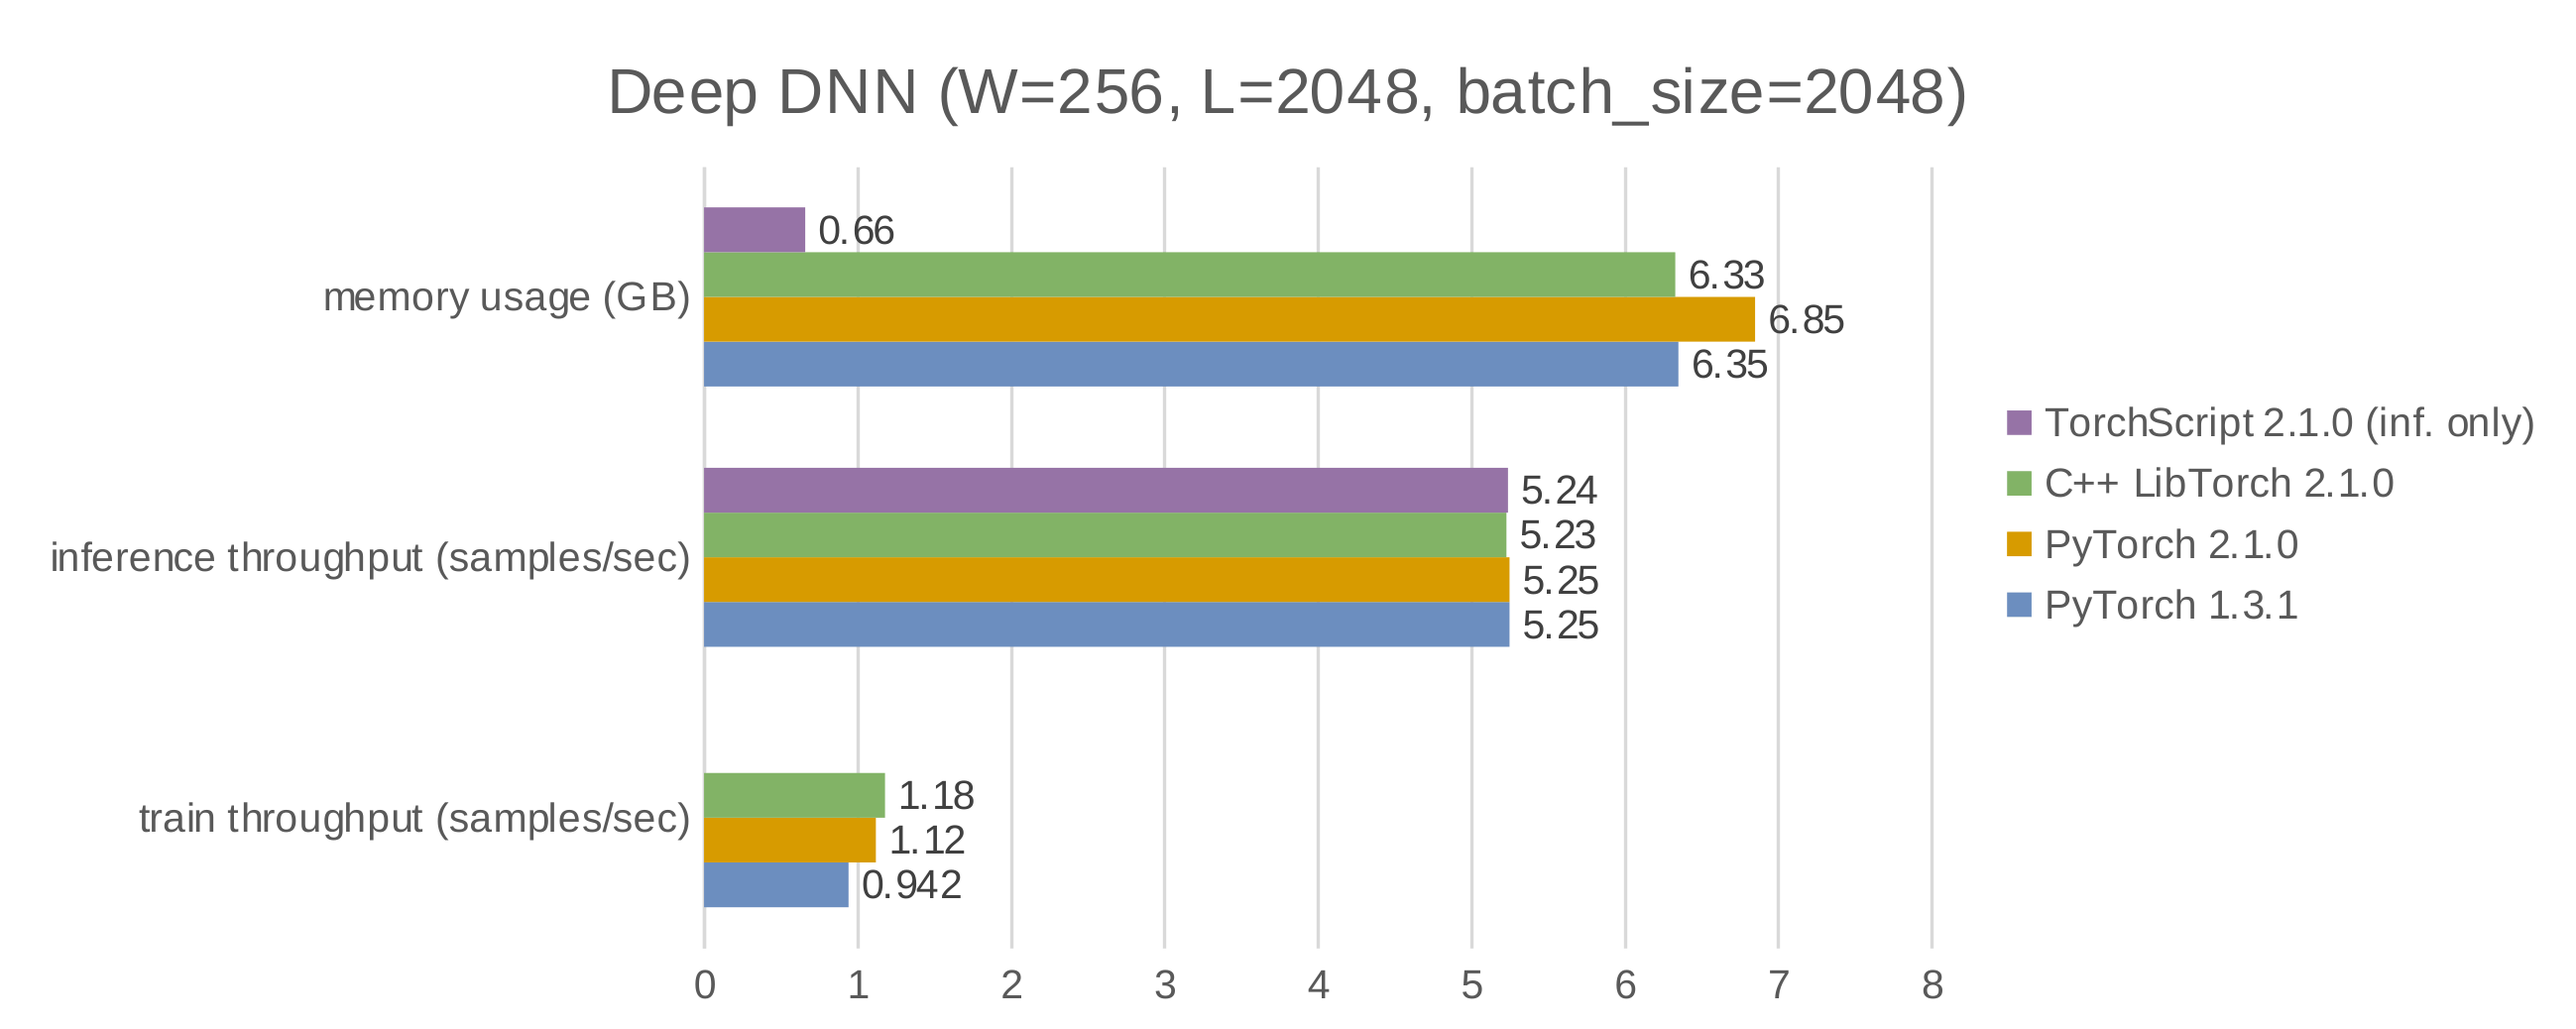
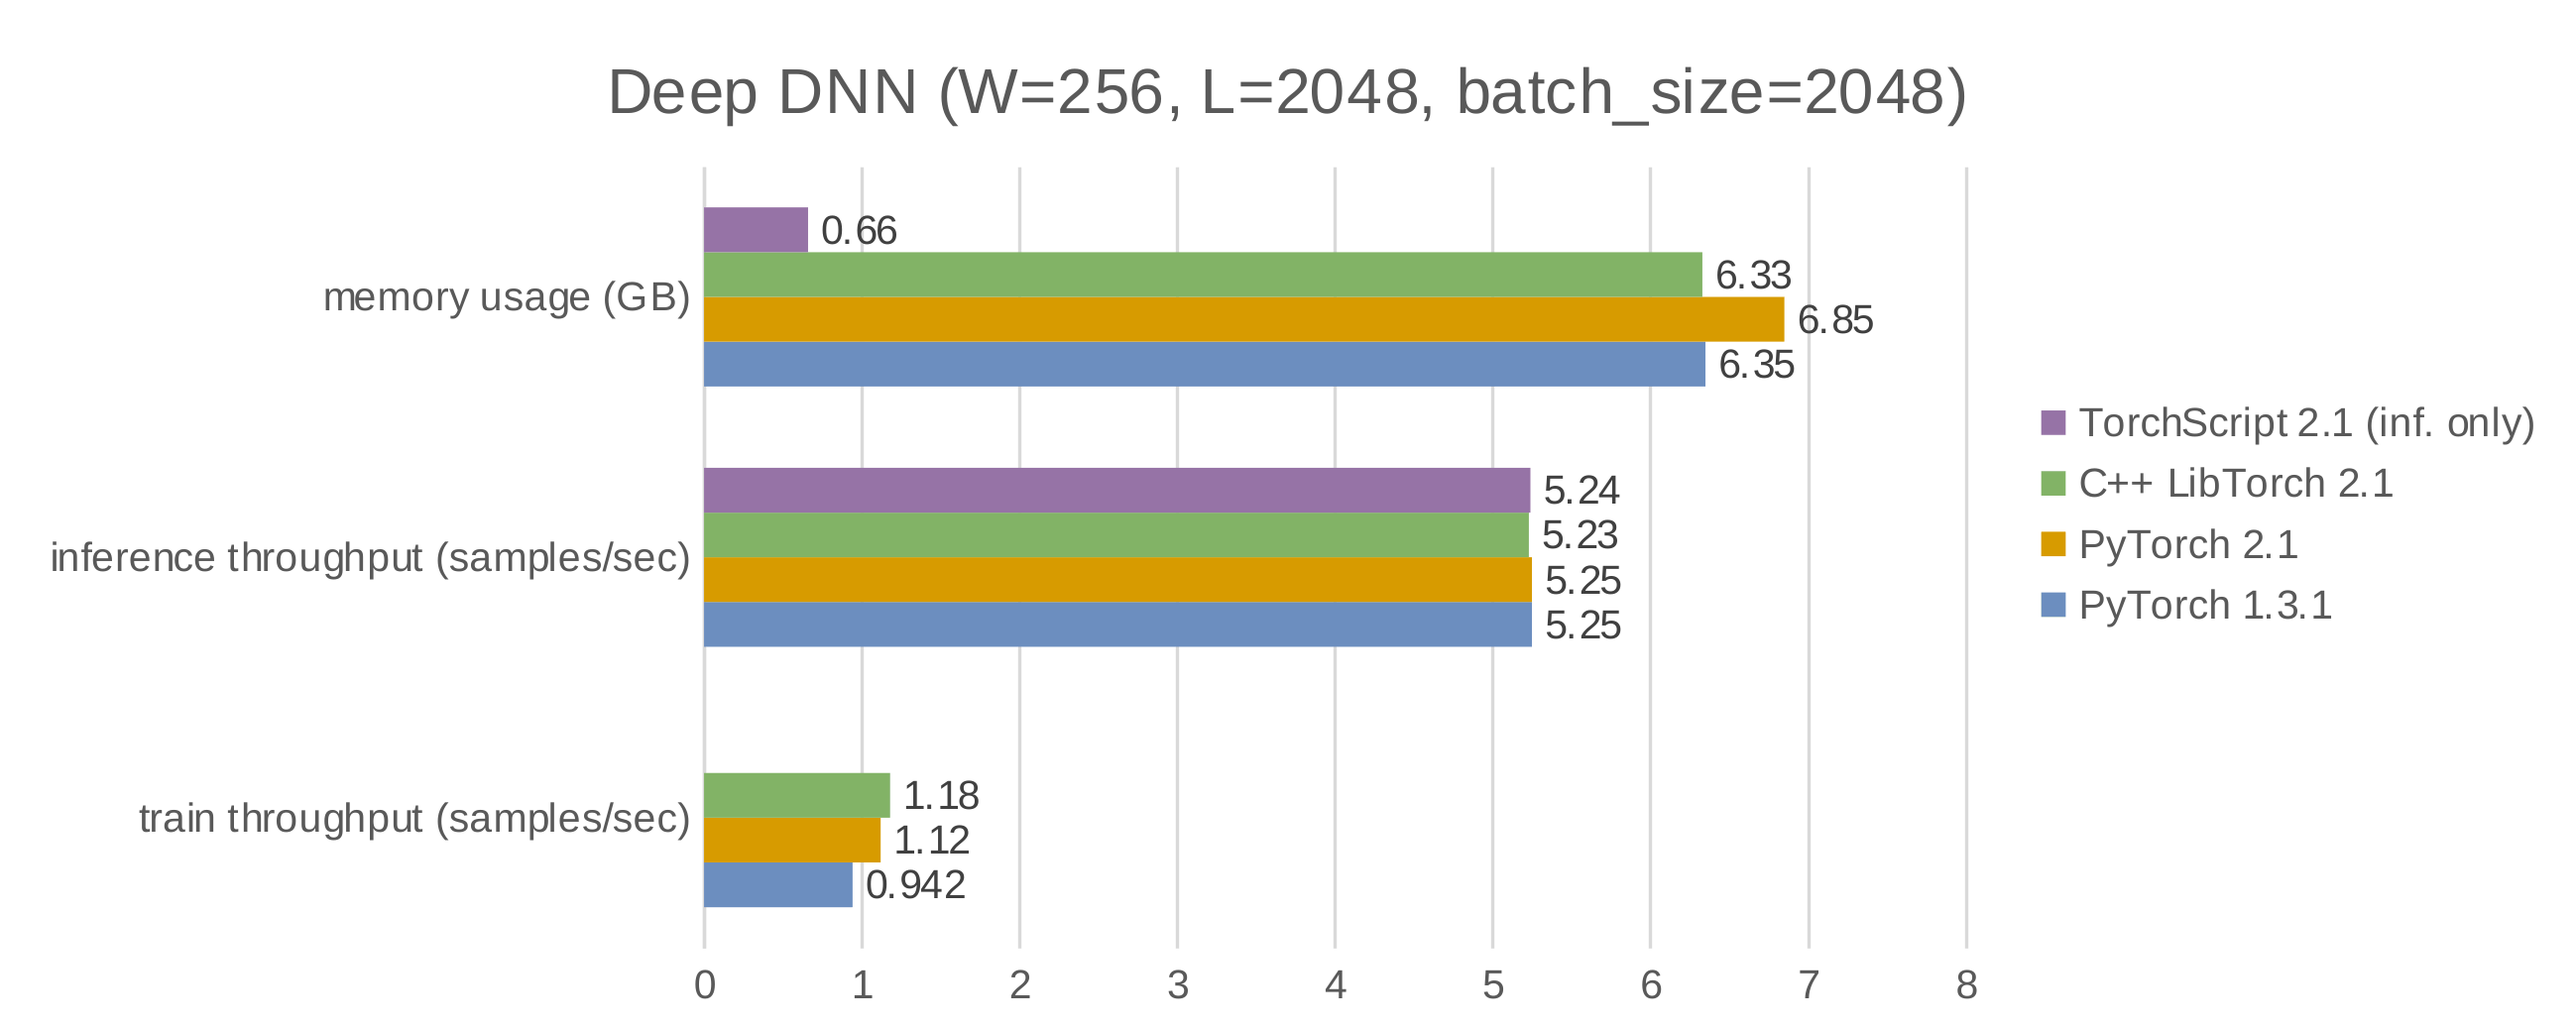
Name the PyTorch 2.1 versions without the patch number and correct the gain to 19% in gptlite-cpp
Claude-Session: https://claude.ai/code/session_01Xf6bJex2do3LmU6gkADKZ3

diff --git a/_posts/2023-06-27-gptlite-cpp.md b/_posts/2023-06-27-gptlite-cpp.md
@@ -39,7 +39,7 @@ The flag `fullgraph` specifies whether the compilation outputs a single graph fo
 
 ## About this post
 
-In this post, we will benchmark and analyse several implementations of ML training and inference performed on different backends: PyTorch 1.3.1 (Python), PyTorch 2.1.2 (Python), LibTorch 2.1.2 (C++), TorchScript 2.1.2 (Python and C++), and PyTorch 2.1.2 with `torch.compile` (Python).  
+In this post, we will benchmark and analyse several implementations of ML training and inference performed on different backends: PyTorch 1.3.1 (Python), PyTorch 2.1 (Python), LibTorch 2.1 (C++), TorchScript 2.1 (Python and C++), and PyTorch 2.1 with `torch.compile` (Python).  
 We will look at two different testbenches, so feel free to pick one based on your level of expertise and interest:
 1. the small variant of the GPT2 model, introduced in [Building a GPT model from scratch]({{ site.baseurl }}{% post_url  2023-02-28-gptlite %}), will be detailed in section [GPTlite on LibTorch C++](#gptlite-model). This is a complex example that is specific to the use case of large language models; 
 2. a Deep Neural Network of arbitrary width and depth, in section [Benchmark Model on LibTorch C++](#benchmark-model). This is a very simple example that will be used to benchmark our metrics on models of varying depths and widths. It is mostly suitable for those who are interested in performance modeling, ML engineering, and the C++/Python/TorchScript comparison.  
@@ -488,10 +488,10 @@ We compared the throughput (samples/sec) and GPU memory usage (GBs) of three dis
 3. a wide benchmark model of 3 layers with 8192 activations each, with input and output of size 2048.
 
 So, in practice, we are testing a very deep DNN, a very shallow DNN and a large language model. For each model, we tested:
-- the Python PyTorch implementation of training and inference, on versions 1.3.1 and 2.1.2;
-- the C++ LibTorch 2.1.2 implementation of train and inference;
-- the TorchScript combo, using PyTorch 2.1.2 to train and output the model, and C++ LibTorch 2.1.2 to load it and perform inference; and
-- the train and inference using `torch.compile` on PyTorch 2.1.2. 
+- the Python PyTorch implementation of training and inference, on versions 1.3.1 and 2.1;
+- the C++ LibTorch 2.1 implementation of train and inference;
+- the TorchScript combo, using PyTorch 2.1 to train and output the model, and C++ LibTorch 2.1 to load it and perform inference; and
+- the train and inference using `torch.compile` on PyTorch 2.1. 
 
 As an important remark, I noticed that both the Python and C++ implementations of Torch leak memory on the GPU when several models are allocated in the same run, as the deallocation does not clear the memory completely. For that reason, I executed a new run per benchmark value.
 The results for the GPTlite model are the following: 
@@ -501,7 +501,7 @@ The results for the GPTlite model are the following:
 
 The results for the benchmark models are in <a href="{{ site.assets }}/gptlite-cpp/benchmark_wide.png">benchmark_wide.png</a> and <a href="{{ site.assets }}/gptlite-cpp/benchmark_deep.png">benchmark_deep.png</a>. Looking at the GPU memory usage, we see a much smaller memory requirement for inference-only runs (purple bars) compared to runs that performed train and inference (blue, orange, and green bars). This is expected, due to the extra parameters and optimizer values required for training. Training leads to an increase in memory in the order of 4x to 10x.  
 
-Looking at the overall performance, there is a gain of up to 15% in throughput when moving from PyTorch 1.3.1 to 2.1.2 (blue to orange bars). There is also a small throughput increase of up to 10% when moving from PyTorch 2.1.2 to its C++ LibTorch equivalent (from orange to green bars), explained by the Python overhead (runtime, dynamic typing, etc.). Finally, the difference in inference performance between the pure C++ implementation and the TorchScript implementation (train in Python, inference in C++) is negligible, which means that TorchScript does a pretty good job at (de)serializing the model.
+Looking at the overall performance, there is a gain of up to 19% in throughput when moving from PyTorch 1.3.1 to 2.1 (blue to orange bars). There is also a small throughput increase of up to 10% when moving from PyTorch 2.1 to its C++ LibTorch equivalent (from orange to green bars), explained by the Python overhead (runtime, dynamic typing, etc.). Finally, the difference in inference performance between the pure C++ implementation and the TorchScript implementation (train in Python, inference in C++) is negligible, which means that TorchScript does a pretty good job at (de)serializing the model.
 
 We also tested the speed-up gains from using `torch.compile` on our GPTlite model. The base case without `torch.compile` performs the PyTorch-based training at a throughput of 1.41 samples/sec and inference at 4.28 samples/second. Let's compare it with the same model compiled in different modes and with(out) a full graph:
 
